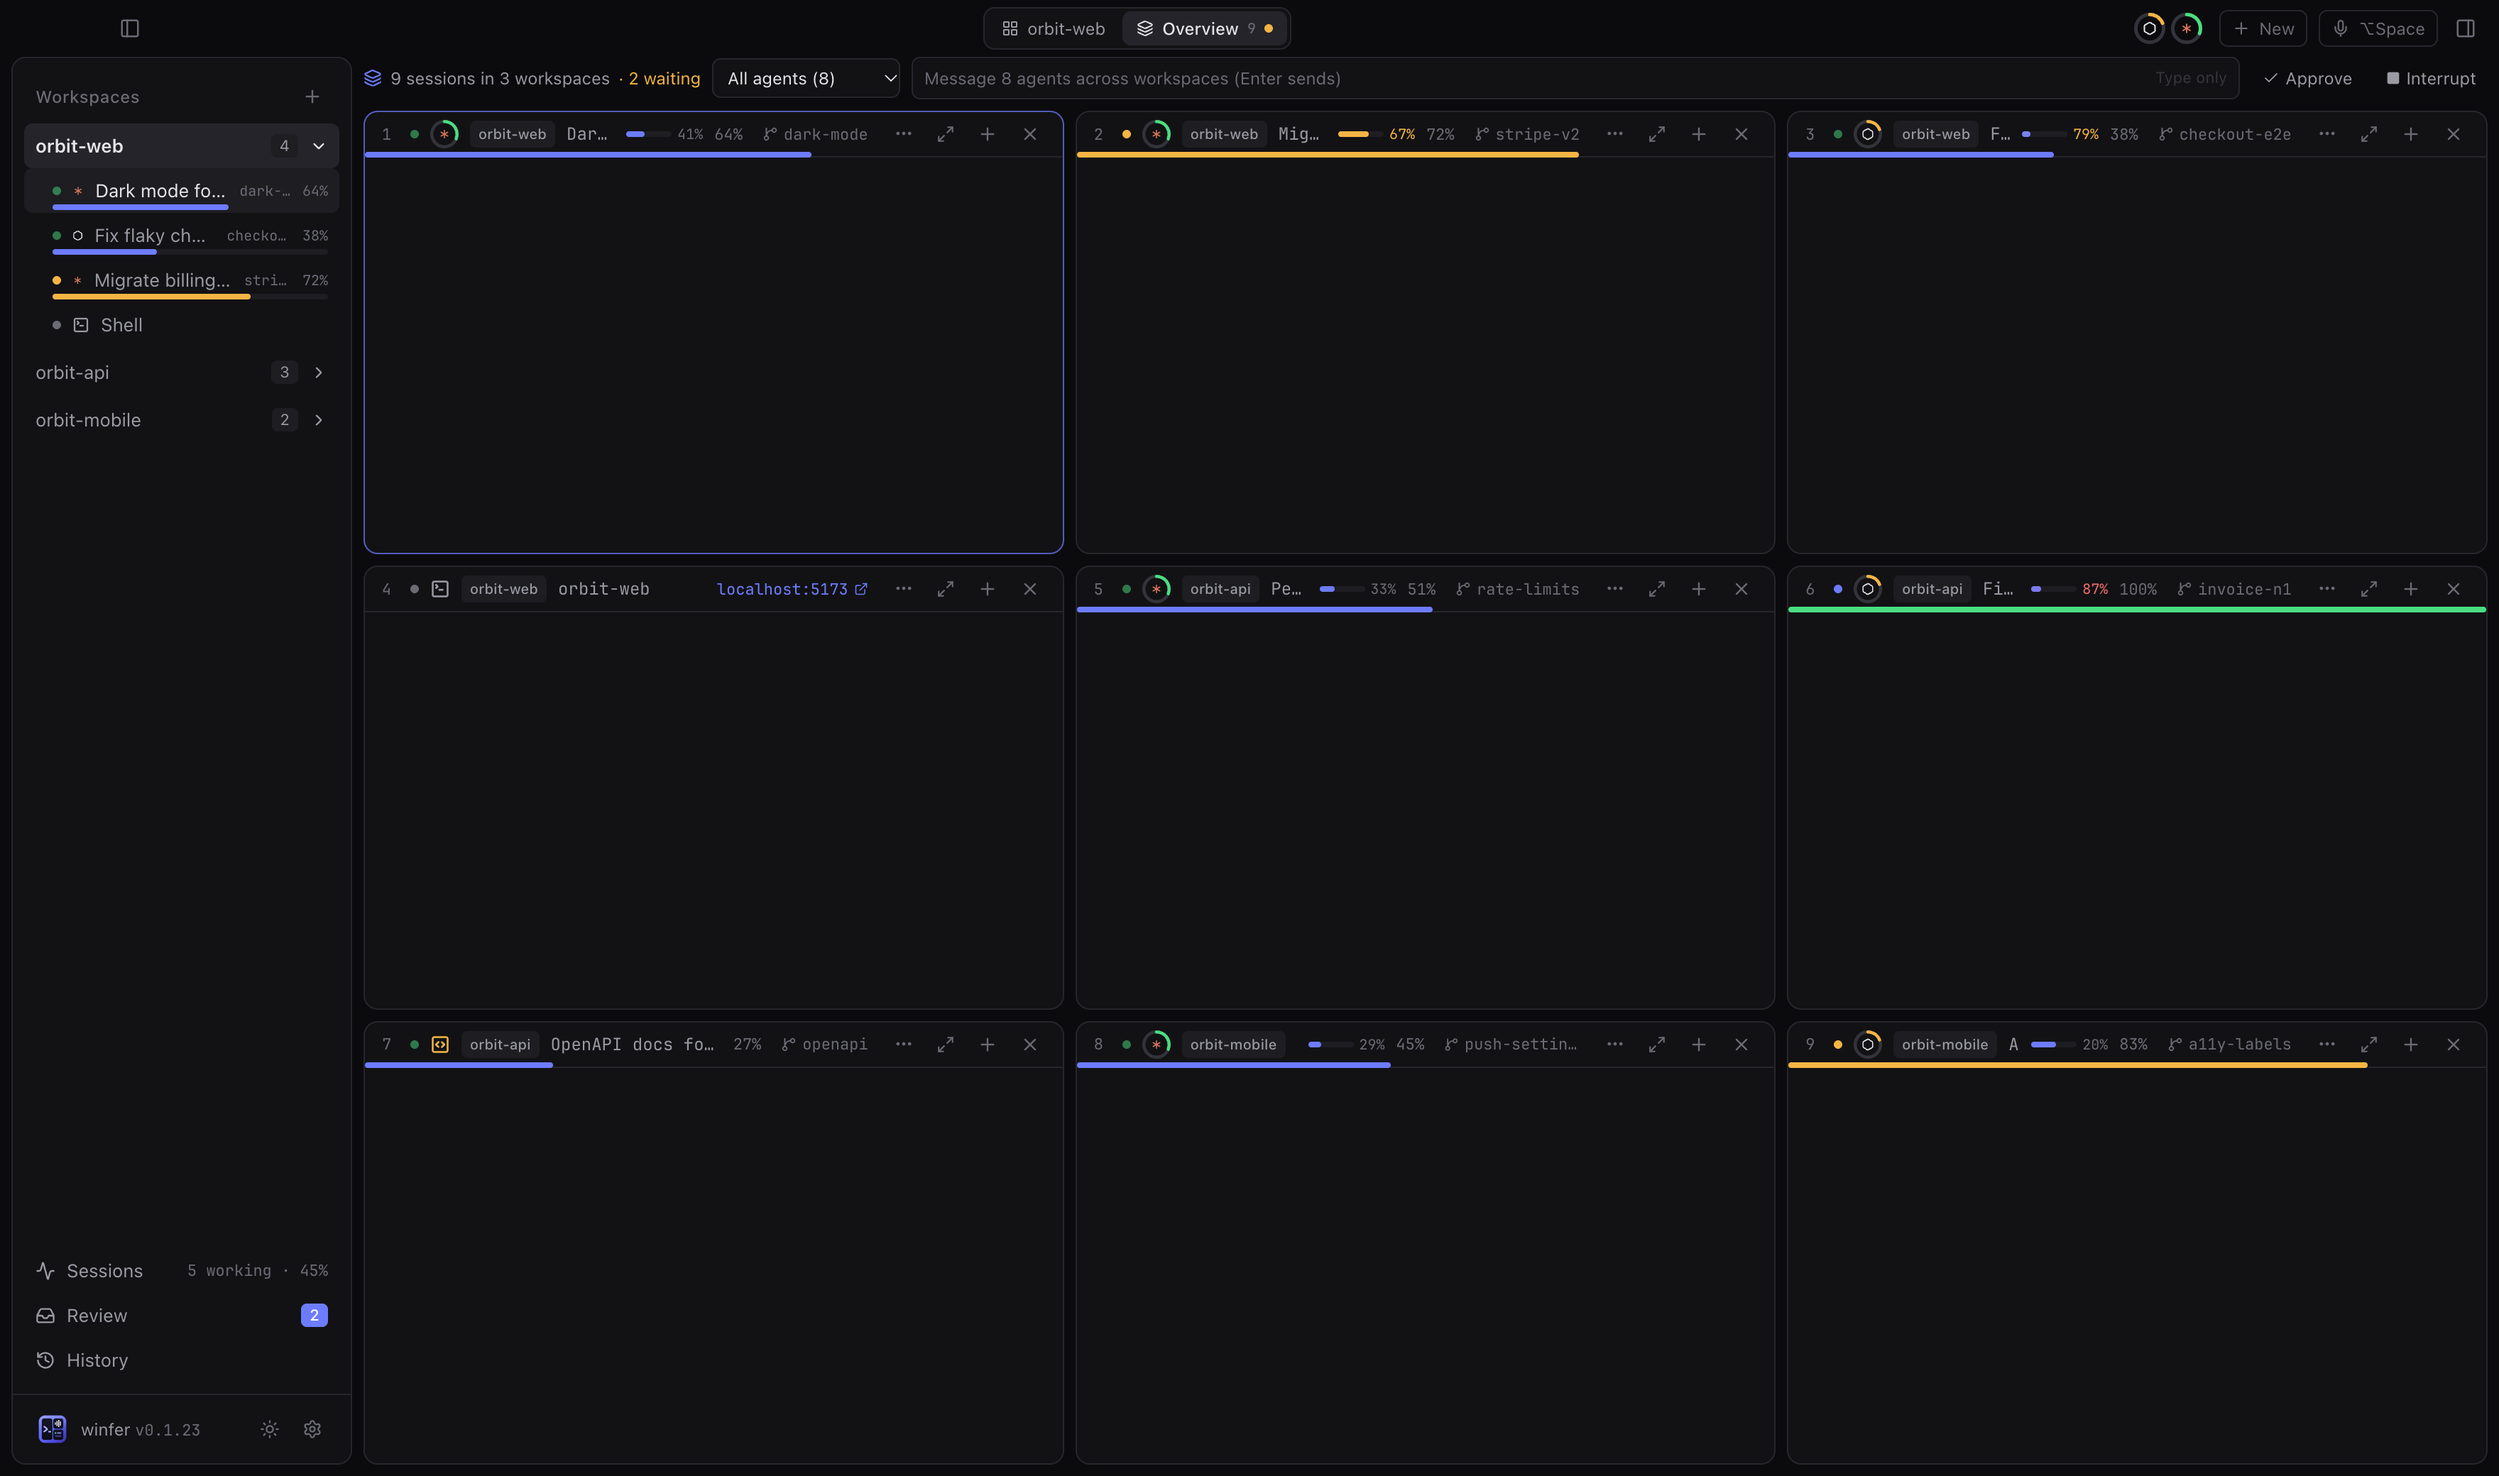
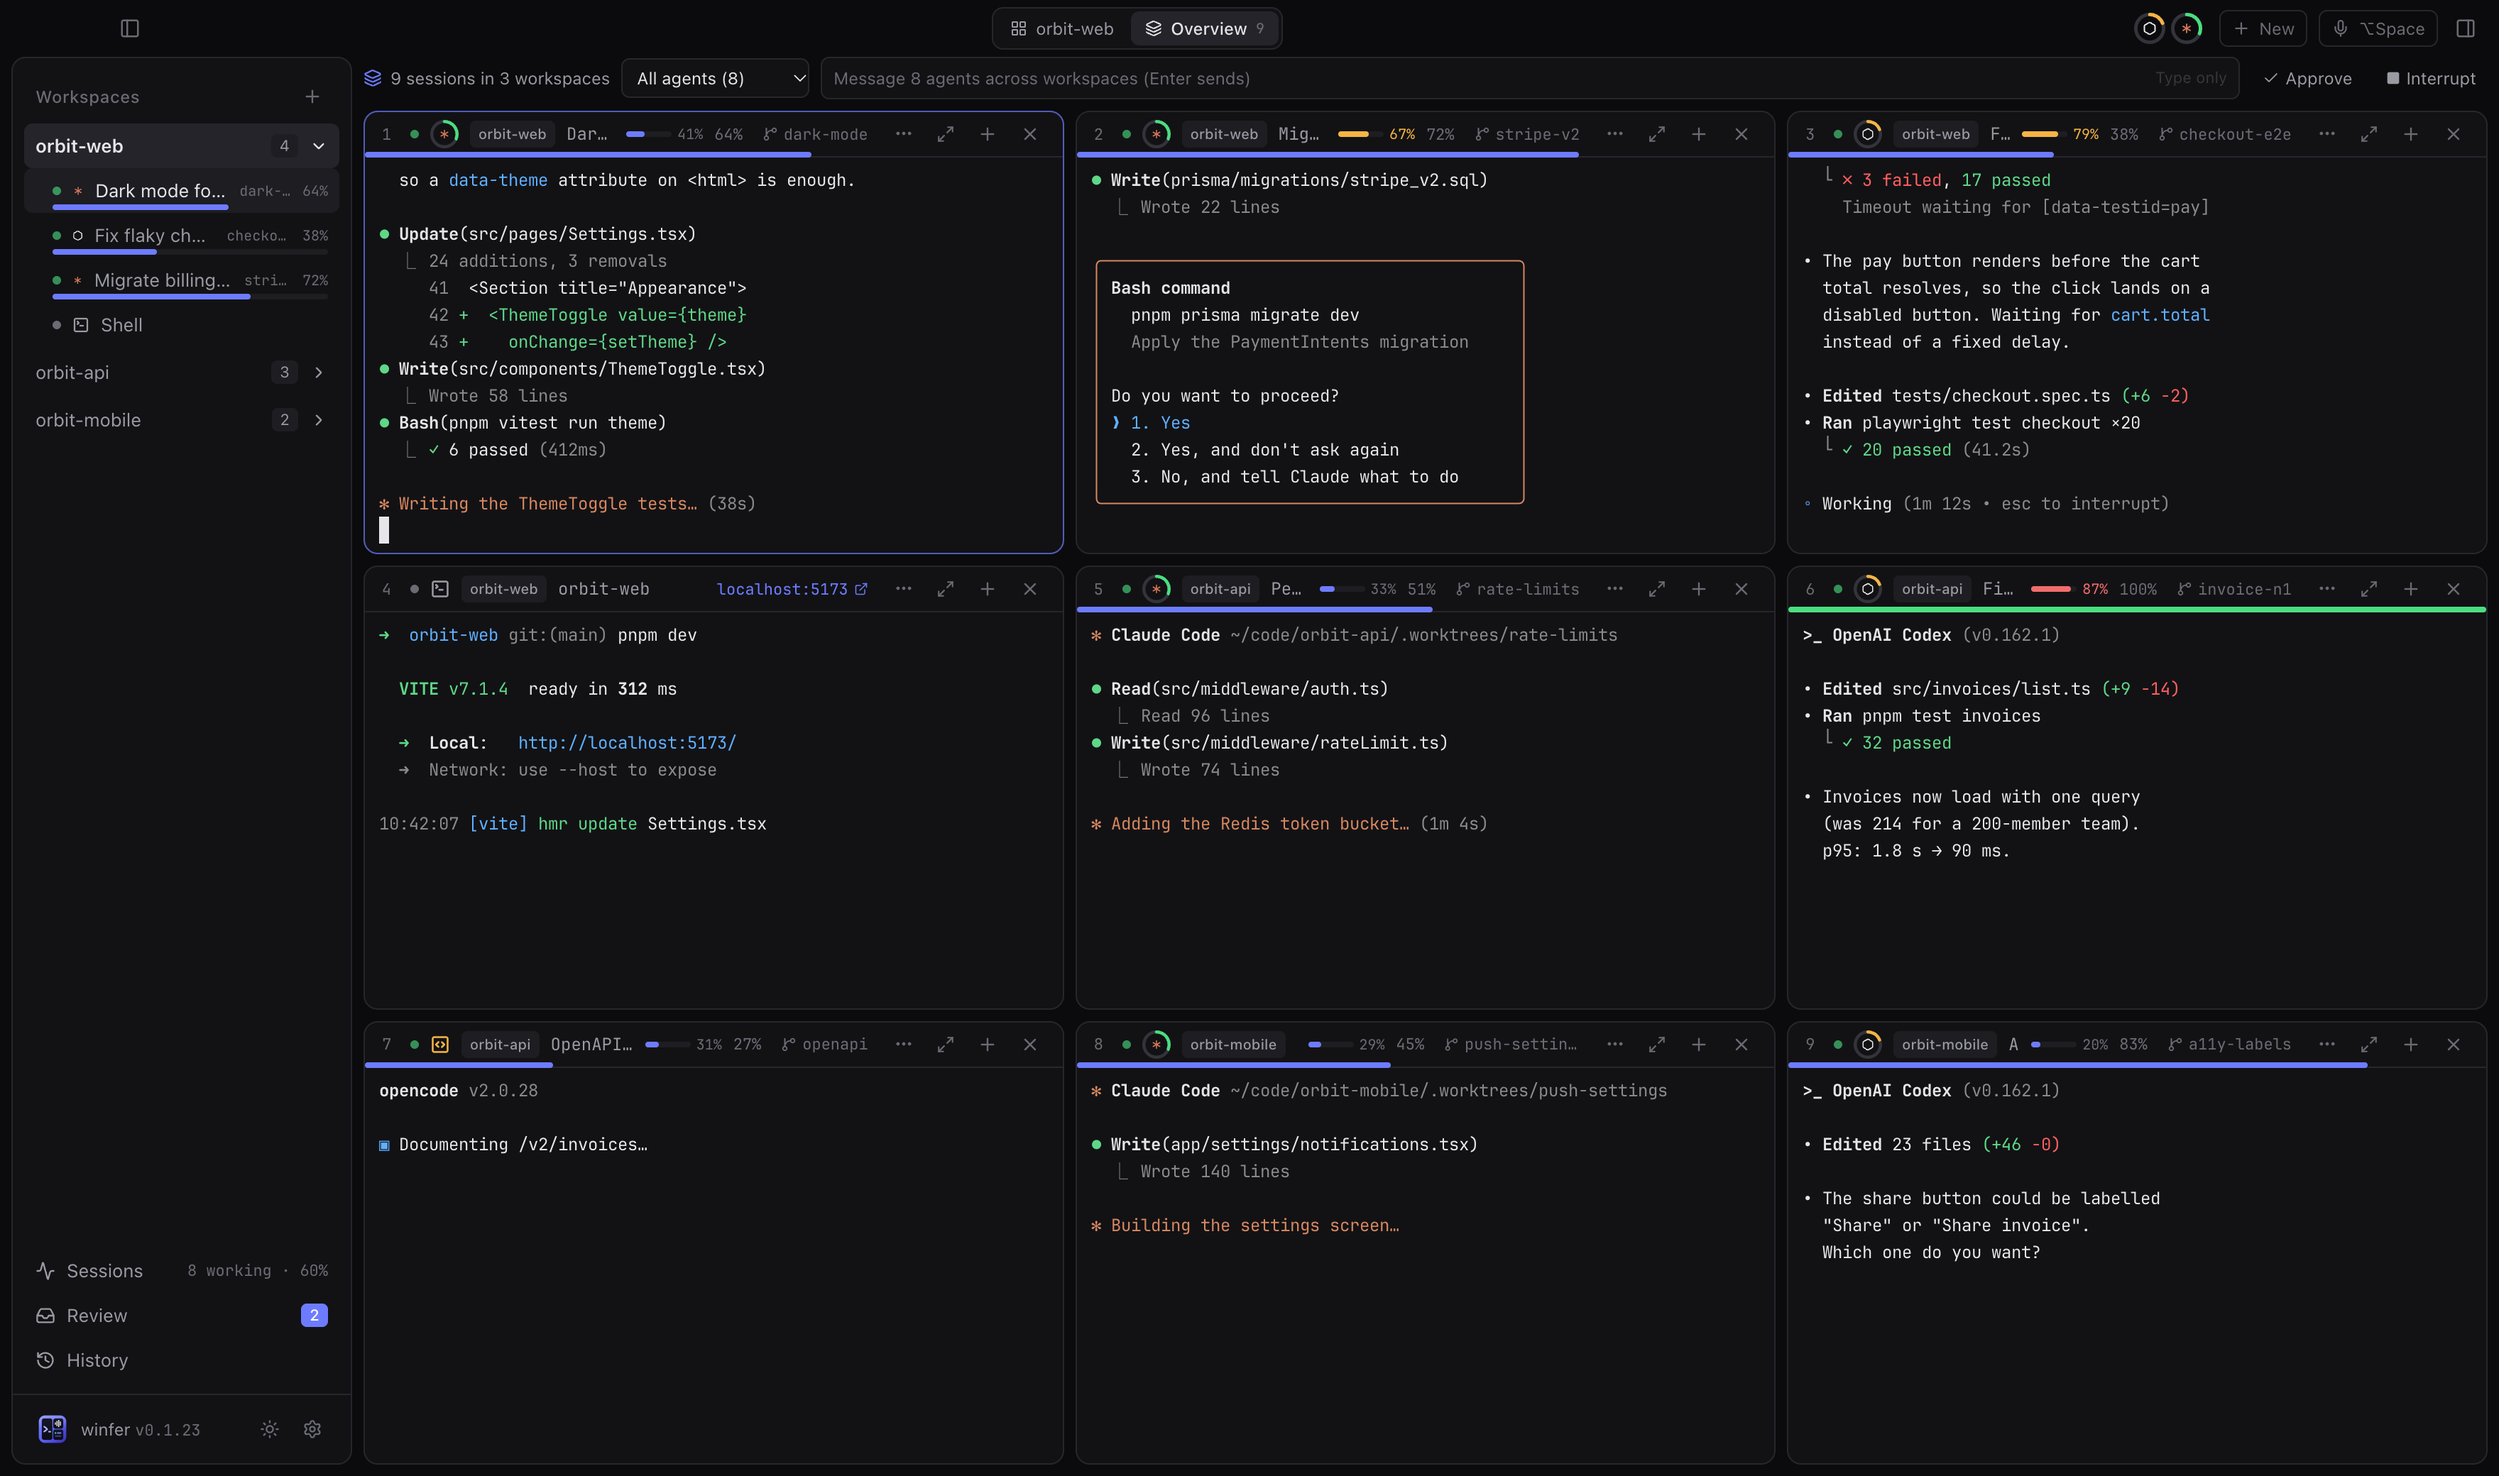
Show OpenCode panes' context use; release 0.1.24
OpenCode pane headers now show how full the context window is, like Claude Code and Codex.
OpenCode 2 keeps its sessions in ~/.local/share/opencode/opencode.db: winfer reads (read-only)
the newest top-level session in the pane's folder, its last assistant message's tokens, and the
model's context window from OpenCode's cached models.dev catalog. Checked every 20 seconds.

diff --git a/src/features/usage/usage.ts b/src/features/usage/usage.ts
@@ -192,7 +192,14 @@ export async function refreshCodexContext(pane: Pane) {
   if (context) setContext(pane.id, context);
 }
 
-const codexPanes = () => useWorkspaces.getState().workspaces.flatMap((w) => w.panes).filter((p) => p.provider === "codex");
+/** Reads an OpenCode pane's context use from OpenCode's session database. */
+export async function refreshOpencodeContext(pane: Pane) {
+  const context = await invoke<Context | null>("usage_opencode_context", { cwd: pane.cwd }).catch(() => null);
+  if (context) setContext(pane.id, context);
+}
+
+const panesOf = (provider: string) => useWorkspaces.getState().workspaces.flatMap((w) => w.panes).filter((p) => p.provider === provider);
+const codexPanes = () => panesOf("codex");
 
 /** Context colour: fine until it gets full enough for the agent to start compacting. */
 export function contextColor(used: number): string {
@@ -232,6 +239,10 @@ export function startUsageTracking() {
   });
   // Codex also logs token counts during a turn: follow working panes, and read all at startup.
   window.setTimeout(() => codexPanes().forEach((p) => void refreshCodexContext(p)), 3000);
+  // OpenCode has no hooks: look at its sessions now and then (one small database query each).
+  const pollOpencodeContext = () => panesOf("opencode").forEach((p) => void refreshOpencodeContext(p));
+  window.setTimeout(pollOpencodeContext, 3000);
+  window.setInterval(pollOpencodeContext, 20_000);
   window.setInterval(() => codexPanes().filter((p) => p.status === "working").forEach((p) => void refreshCodexContext(p)), 30_000);
   const installed = (id: string) => useWorkspaces.getState().providers.some((p) => p.id === id && p.installed);
   // Just a look at a few log files (nothing if Codex was never used), so no need to wait for

diff --git a/src/dev/mockTauri.ts b/src/dev/mockTauri.ts
@@ -210,6 +210,8 @@ mockIPC(
         const used = 20 + ([...String(a.cwd)].reduce((n, c) => n + c.charCodeAt(0), 0) % 70);
         return { usedPercent: used, tokens: Math.round(475_000 * used / 100), window: 475_000, at: Date.now() };
       }
+      case "usage_opencode_context":
+        return { usedPercent: 31, tokens: 81_265, window: 262_144, at: Date.now() };
       case "usage_opencode":
         return { tokens: 412_300, cost: 0.83, sessions: 14 };
       case "android_status":

diff --git a/src-tauri/src/usage.rs b/src-tauri/src/usage.rs
@@ -348,6 +348,89 @@ pub async fn usage_opencode() -> Option<Spend> {
     .flatten()
 }
 
+/// OpenCode 2's database (sessions, messages, the models catalog), read-only.
+fn opencode_db() -> Option<rusqlite::Connection> {
+    let data = std::env::var_os("XDG_DATA_HOME").map(PathBuf::from).or_else(|| dirs::home_dir().map(|h| h.join(".local/share")))?;
+    let path = data.join("opencode/opencode.db");
+    if !path.exists() {
+        return None;
+    }
+    let conn = rusqlite::Connection::open_with_flags(&path, rusqlite::OpenFlags::SQLITE_OPEN_READ_ONLY | rusqlite::OpenFlags::SQLITE_OPEN_NO_MUTEX).ok()?;
+    let _ = conn.busy_timeout(std::time::Duration::from_millis(500));
+    Some(conn)
+}
+
+fn same_dir(a: &str, b: &str) -> bool {
+    let norm = |p: &str| p.trim_end_matches(['/', '\\']).replace('\\', "/");
+    if cfg!(windows) { norm(a).eq_ignore_ascii_case(&norm(b)) } else { norm(a) == norm(b) }
+}
+
+/// Tokens in the context after an assistant message: everything the model saw and wrote.
+fn opencode_message_tokens(data: &Value) -> Option<u64> {
+    let t = &data["tokens"];
+    let n = |v: &Value| v.as_u64().unwrap_or(0);
+    let total = n(&t["input"]) + n(&t["output"]) + n(&t["reasoning"]) + n(&t["cache"]["read"]) + n(&t["cache"]["write"]);
+    (total > 0).then_some(total)
+}
+
+/// A model's context window from OpenCode's cached models.dev catalog. Parsed once (it's large).
+fn opencode_model_window(conn: &rusqlite::Connection, provider: &str, model: &str) -> Option<u64> {
+    static CATALOG: std::sync::Mutex<Option<std::collections::HashMap<String, u64>>> = std::sync::Mutex::new(None);
+    let mut catalog = CATALOG.lock().ok()?;
+    if catalog.is_none() {
+        let raw: String = conn.query_row("select value from kv where key = 'models-dev:catalog'", [], |r| r.get(0)).ok()?;
+        let outer: Value = serde_json::from_str(&raw).ok()?;
+        let body: Value = match &outer["body"] {
+            Value::String(s) => serde_json::from_str(s).ok()?,
+            v => v.clone(),
+        };
+        let mut windows = std::collections::HashMap::new();
+        for (pid, p) in body.as_object()? {
+            for (mid, m) in p["models"].as_object().into_iter().flatten() {
+                if let Some(ctx) = m["limit"]["context"].as_u64() {
+                    windows.insert(format!("{pid}/{mid}"), ctx);
+                }
+            }
+        }
+        *catalog = Some(windows);
+    }
+    catalog.as_ref()?.get(&format!("{provider}/{model}")).copied()
+}
+
+/// Context use of the newest OpenCode session (not a subagent's) started in `cwd`.
+fn opencode_context_at(conn: &rusqlite::Connection, cwd: &str) -> Option<Context> {
+    let mut stmt = conn
+        .prepare("select id, directory, model from session_v2 where parent_id is null order by time_updated desc limit 200")
+        .ok()?;
+    let (session, model): (String, Option<String>) = stmt
+        .query_map([], |r| Ok((r.get::<_, String>(0)?, r.get::<_, String>(1)?, r.get::<_, Option<String>>(2)?)))
+        .ok()?
+        .flatten()
+        .find(|(_, dir, _)| same_dir(dir, cwd))
+        .map(|(id, _, model)| (id, model))?;
+    let mut stmt = conn
+        .prepare("select data, time_updated from session_message where session_id = ?1 and type = 'assistant' order by seq desc limit 20")
+        .ok()?;
+    let (tokens, data, at) = stmt
+        .query_map([&session], |r| Ok((r.get::<_, String>(0)?, r.get::<_, i64>(1)?)))
+        .ok()?
+        .flatten()
+        .find_map(|(raw, at)| {
+            let data: Value = serde_json::from_str(&raw).ok()?;
+            Some((opencode_message_tokens(&data)?, data, at))
+        })?;
+    // The message names its model; the session's model is the fallback.
+    let model = Some(data["model"].clone()).filter(|m| m.is_object()).or_else(|| model.and_then(|m| serde_json::from_str(&m).ok()))?;
+    let window = opencode_model_window(conn, model["providerID"].as_str()?, model["id"].as_str()?)?;
+    Some(Context { used_percent: tokens as f64 * 100.0 / window as f64, tokens, window, at })
+}
+
+/// Context use of the OpenCode session in a pane's folder (OpenCode 2; older versions: None).
+#[tauri::command]
+pub async fn usage_opencode_context(cwd: String) -> Option<Context> {
+    tauri::async_runtime::spawn_blocking(move || opencode_context_at(&opencode_db()?, &cwd)).await.ok().flatten()
+}
+
 // Dates -----------------------------------------------------------------------------------------
 
 /// "2026-10-14T00:00:29.123Z" (or with an offset) → unix ms.
@@ -434,6 +517,29 @@ mod tests {
         assert_eq!(s.windows[1].kind, "week");
     }
 
+    #[test]
+    fn reads_opencode_context() {
+        let conn = rusqlite::Connection::open_in_memory().unwrap();
+        conn.execute_batch(
+            r#"create table kv (key text primary key, value text);
+            create table session_v2 (id text, parent_id text, directory text, model text, time_updated integer);
+            create table session_message (session_id text, type text, seq integer, time_updated integer, data text);
+            insert into kv values ('models-dev:catalog', '{"updatedAt":1,"body":"{\"opencode\":{\"models\":{\"big\":{\"limit\":{\"context\":200000}}}}}"}');
+            insert into session_v2 values ('s1', null, '/w/a', '{"id":"big","providerID":"opencode"}', 2);
+            insert into session_v2 values ('s0', null, '/w/b', null, 3);
+            insert into session_message values ('s1', 'assistant', 1, 10, '{"tokens":{"input":100,"output":0,"cache":{"read":0,"write":0}}}');
+            insert into session_message values ('s1', 'assistant', 2, 20, '{"model":{"id":"big","providerID":"opencode"},"tokens":{"input":1000,"output":500,"reasoning":500,"cache":{"read":48000,"write":0}}}');"#,
+        )
+        .unwrap();
+        let c = opencode_context_at(&conn, "/w/a/").unwrap();
+        assert_eq!((c.tokens, c.window, c.used_percent, c.at), (50000, 200000, 25.0, 20));
+        assert!(opencode_context_at(&conn, "/w/c").is_none());
+    }
+
+    fn opendb_context(dir: &str) -> Option<Context> {
+        opencode_context_at(&opencode_db()?, dir)
+    }
+
     /// Reads this machine's real Codex logs: `cargo test codex_logs -- --ignored --nocapture`.
     #[test]
     #[ignore]
@@ -442,6 +548,8 @@ mod tests {
         let snapshot = newest_logs(&root, 4).iter().find_map(|log| codex_snapshot_in(&tail(log, 512 * 1024)?));
         println!("{snapshot:#?}");
         let log = codex_log_for(&root, None, "/Users/rickyperlick/Coding");
+        let dir = "/Users/rickyperlick/Library/Application Support/dev.winfer.app/worktrees/cleadger-8999bec3/opencode-1";
+        println!("opencode: {:#?}", opendb_context(dir));
         println!("{log:?} {:#?}", log.as_ref().and_then(|l| codex_context_in(&tail(l, 1024 * 1024)?)));
     }
 }

diff --git a/src-tauri/src/lib.rs b/src-tauri/src/lib.rs
@@ -165,6 +165,7 @@ pub fn run() {
             usage::usage_codex,
             usage::usage_codex_context,
             usage::usage_opencode,
+            usage::usage_opencode_context,
             llm::llm_compose,
         ])
         .build(tauri::generate_context!())

diff --git a/TESTING.md b/TESTING.md
@@ -107,7 +107,7 @@ Tick what works; note anything that doesn't (what you did, what you expected, wh
 - [ ] The New menu shows "% left" next to Claude Code / Codex; pane headers show the ring around the agent icon.
 - [ ] Crossing 80% / 95% used shows a toast (native notification when winfer is in the background); at 100% the toast offers "Continue in Codex" (or the agent with most room), which opens it next to the pane in the same worktree with the task and last output.
 
-- [ ] Context: Claude Code and Codex pane headers show a small bar with how full the context window is (number hidden in narrow panes; tooltip "84k of 200k tokens"); amber from 60%, red from 85%. Claude updates with its status line, Codex after each turn (and every 30 s while working).
+- [ ] Context: Claude Code, Codex and OpenCode pane headers show a small bar with how full the context window is (number hidden in narrow panes; tooltip "84k of 200k tokens"); amber from 60%, red from 85%. Claude updates with its status line, Codex after each turn (and every 30 s while working), OpenCode 2.x every 20 s (from its session database).
 
 ## 6b. Feedback and motion
 - [ ] Dialogs (Settings, palette, review, history…) fade in; menus pop in; new panes grow in; switching workspace or Overview fades the content.
